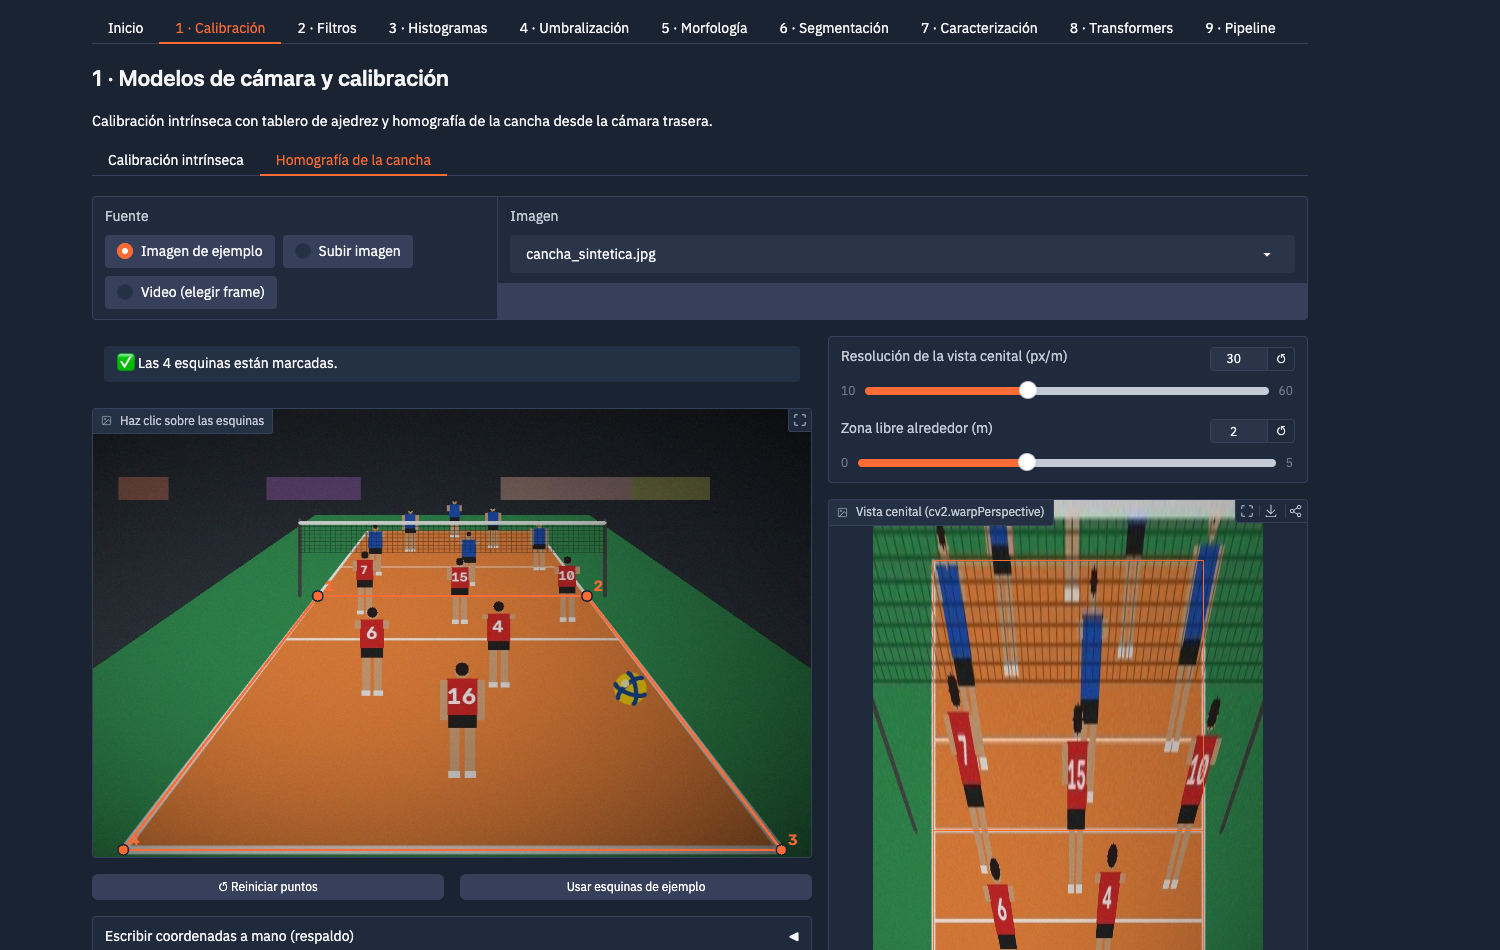
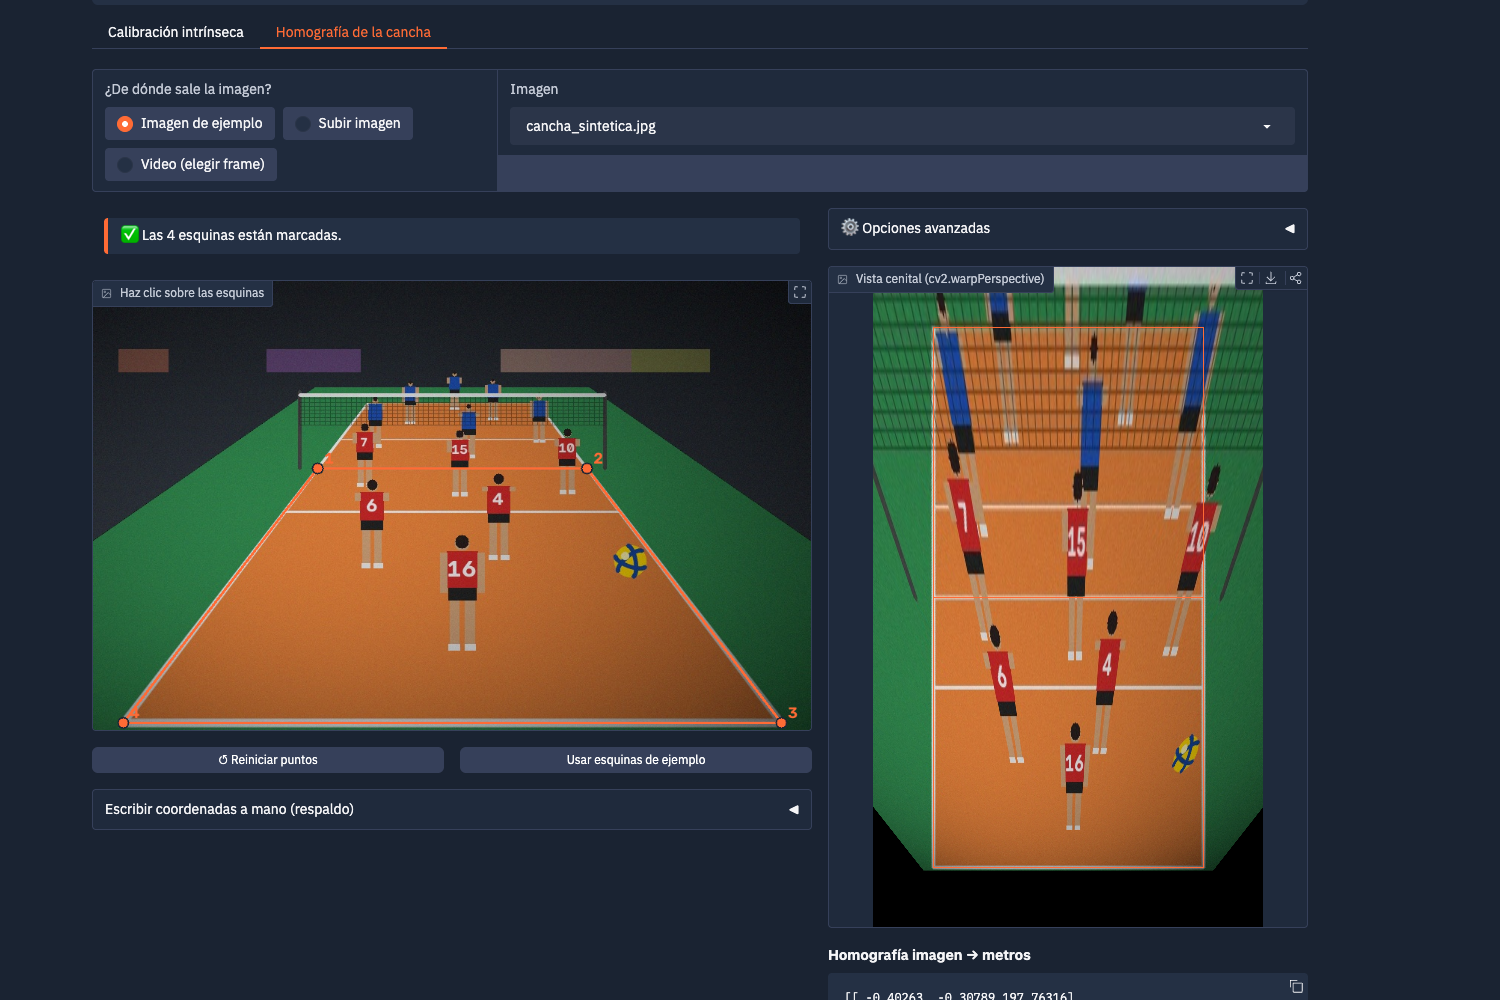
docs: describir el modo guiado y actualizar las capturas

diff --git a/README.md b/README.md
@@ -50,12 +50,12 @@ clásicas con **modelos transformer** de Hugging Face (RT-DETR, DETR, SegFormer 
 
 ## Capturas
 
-Inicio, Calibración y Transformers se tomaron del Space desplegado (los tiempos de RT-DETR y DETR son
-en la GPU de ZeroGPU); la del Pipeline, de la app local con el mismo código.
+La de Transformers se tomó del Space desplegado (los tiempos de RT-DETR y DETR son en la GPU de
+ZeroGPU); las demás, de la app local con el mismo código.
 
-| Inicio | Calibración y homografía |
+| Analizar partido (modo guiado) | Calibración y homografía |
 |---|---|
-| ![Inicio](docs/capturas/inicio.png) | ![Homografía de la media cancha y vista cenital](docs/capturas/calibracion.png) |
+| ![Analizar partido: resultado en lenguaje sencillo y mapa de la cancha](docs/capturas/analizar.png) | ![Homografía de la media cancha y vista cenital](docs/capturas/calibracion.png) |
 | **Transformers (clásico vs. RT-DETR vs. DETR)** | **Pipeline completo (mapa cenital)** |
 | ![Comparación clásico vs. transformer](docs/capturas/transformers.png) | ![Pipeline: paso 7, mapa cenital](docs/capturas/pipeline.png) |
 
@@ -92,14 +92,16 @@ python scripts/download_samples.py     # descarga fotos reales con licencia libr
 python app.py
 ```
 
-Se abre en `http://127.0.0.1:7860`. La interfaz está hecha con **Gradio** y tiene una pestaña por tema.
-Recorrido sugerido: **1 · Calibración** (pulsar *Calibrar cámara* y marcar las 4 esquinas de la media
-cancha propia en la subpestaña *Homografía*) → pestañas 2 a 8 → **9 · Pipeline**.
+Se abre en `http://127.0.0.1:7860`. La interfaz está hecha con **Gradio** y pensada también para quien no
+sabe de visión artificial. Tiene tres secciones:
 
-Cada pestaña tiene la carga de imagen (ejemplo, archivo propio o un frame de video), sliders para los
-parámetros, el resultado al lado de la original y un desplegable **"¿Qué está pasando?"** con la teoría
-y las fórmulas. Las esquinas marcadas y la calibración se guardan en la sesión y las usan las pestañas
-de Caracterización y Pipeline.
+| Sección | Para qué sirve |
+|---|---|
+| 🏐 **Analizar partido** | Modo guiado en 3 pasos: elegir la imagen → marcar las 4 esquinas de la media cancha (opcional) → **Analizar**. El resultado sale en lenguaje sencillo (jugadores por equipo, balón y en qué lado de la cancha está cada uno) junto con la foto anotada y el mapa visto desde arriba. Un desplegable *¿Cómo se hizo?* muestra las 7 etapas y el tema del curso que usa cada una. |
+| 📚 **Temas del curso** | Una pestaña por tema (1 · Calibración … 9 · Pipeline). Cada una empieza con un recuadro **"En pocas palabras"**, deja a la vista solo los controles principales, guarda el resto en **⚙ Opciones avanzadas** y tiene la teoría con fórmulas en **"¿Qué está pasando?"**. |
+| ℹ **Acerca del proyecto** | Autor, recorrido, pipeline y arquitectura. |
+
+Las esquinas marcadas y la calibración se guardan en la sesión y las comparten todas las secciones.
 
 ## Despliegue en Hugging Face Spaces (ZeroGPU)
 
@@ -141,9 +143,9 @@ Se usa un flujo tipo **Git Flow simplificado**:
 
 | Rama | Propósito |
 |---|---|
-| `main` | Versión estable y entregable. Solo recibe merges desde `develop` y se etiqueta en cada versión (`v1.0.0`, `v1.1.0`, `v2.0.0`, `v2.0.1`). |
+| `main` | Versión estable y entregable. Solo recibe merges desde `develop` y se etiqueta en cada versión (`v1.0.0`, `v1.1.0`, `v2.0.0`, `v2.0.1`, `v2.1.0`). |
 | `develop` | Rama de integración: aquí se juntan los módulos terminados y probados. |
-| `feature/<tema>` | Una rama por módulo del curso: `feature/calibracion`, `feature/filtros`, `feature/histogramas`, `feature/umbralizacion`, `feature/morfologia`, `feature/segmentacion`, `feature/caracterizacion`, `feature/transformers`, `feature/ui` (y `feature/docs` para la documentación). Los cambios posteriores siguen el mismo flujo: `feature/camara-trasera` cambió la cámara a la vista trasera (`v1.1.0`) y `feature/gradio-zerogpu` pasó la interfaz a Gradio con ZeroGPU (`v2.0.0`). |
+| `feature/<tema>` | Una rama por módulo del curso: `feature/calibracion`, `feature/filtros`, `feature/histogramas`, `feature/umbralizacion`, `feature/morfologia`, `feature/segmentacion`, `feature/caracterizacion`, `feature/transformers`, `feature/ui` (y `feature/docs` para la documentación). Los cambios posteriores siguen el mismo flujo: `feature/camara-trasera` cambió la cámara a la vista trasera (`v1.1.0`) y `feature/gradio-zerogpu` pasó la interfaz a Gradio con ZeroGPU (`v2.0.0`); `feature/ui-sencilla` agregó el modo guiado para no expertos (`v2.1.0`). |
 
 Reglas:
 
@@ -251,6 +253,15 @@ gitGraph
     merge feature/docs-entrega
     checkout main
     merge develop tag: "v2.0.1"
+    checkout develop
+    branch feature/ui-sencilla
+    checkout feature/ui-sencilla
+    commit id: "feat(ui): modo guiado"
+    commit id: "docs: modo guiado"
+    checkout develop
+    merge feature/ui-sencilla
+    checkout main
+    merge develop tag: "v2.1.0"
 ```
 
 Para ver el historial real: `git log --oneline --graph --all`.
@@ -268,7 +279,7 @@ El código se organiza en tres capas con dependencias en un solo sentido
 flowchart TB
     subgraph UI["Capa de presentación · volleyvision/ui (Gradio)"]
         direction LR
-        APP["app.py<br/>pestañas y estado"] ~~~ PAG["paginas/<br/>p0_inicio … p9_pipeline"] ~~~ COMP["componentes.py<br/>imagen/video, esquinas por clic"] ~~~ MOD["modelos.py<br/>carga única + @spaces.GPU"]
+        APP["app.py<br/>secciones y estado"] ~~~ PAG["paginas/<br/>analizar (guiado), p0 … p9"] ~~~ COMP["componentes.py<br/>imagen/video, esquinas por clic"] ~~~ MOD["modelos.py<br/>carga única + @spaces.GPU"]
     end
     subgraph CORE["Capa de dominio · volleyvision/core (funciones puras, sin Gradio)"]
         direction LR
@@ -326,11 +337,11 @@ VolleyVision/
 │   │   └── pipeline.py
 │   ├── ui/                   # Gradio
 │   │   ├── app.py  ├── componentes.py  ├── modelos.py
-│   │   └── paginas/  p0_inicio.py … p9_pipeline.py
+│   │   └── paginas/  analizar.py (modo guiado), p0_inicio.py … p9_pipeline.py
 │   └── utils/                # io.py, visualizacion.py, sinteticos.py
 ├── data/samples/             # cancha y video sintéticos, tablero (descargadas/ se ignora)
 ├── scripts/                  # generar_sinteticos.py, download_samples.py
-├── tests/                    # pytest (98 pruebas)
+├── tests/                    # pytest (100 pruebas)
 ├── docs/                     # arquitectura, guion del video, capturas
 ├── app.py                    # punto de entrada (local y Hugging Face Spaces)
 ├── requirements.txt  ├── pytest.ini  ├── LICENSE  └── README.md
@@ -374,7 +385,7 @@ compara los tiempos en tu máquina.
 ## Pruebas
 
 ```bash
-pytest                 # 95 pruebas rápidas (sin descargar modelos)
+pytest                 # 97 pruebas rápidas (sin descargar modelos)
 pytest -m slow         # 3 pruebas que descargan y ejecutan los modelos de Hugging Face
 ```
 
@@ -391,7 +402,8 @@ Qué se verifica, entre otras cosas:
 - El pipeline clásico encuentra ≥ 7 de los 12 jugadores sintéticos (la vista trasera tiene oclusiones),
   el balón y los dos equipos.
 - La app de Gradio se construye y cada callback de la UI se ejecuta sin excepciones con la escena
-  sintética (sin levantar el servidor).
+  sintética (sin levantar el servidor); el modo guiado da un resumen con jugadores, balón y lado de la
+  cancha, y sin esquinas no dibuja el mapa.
 
 ---
 

diff --git a/docs/guion_video.md b/docs/guion_video.md
@@ -5,6 +5,9 @@
 - `source .venv/bin/activate && python app.py` (o abrir el Space de Hugging Face).
 - Ejecutar una vez SegFormer y SlimSAM (pestaña 6) y RT-DETR y DETR (pestaña 8) para que los modelos ya
   estén descargados y cargados: así los tiempos que se ven en el video son los de inferencia.
+- Las pestañas de los temas están en la sección **📚 Temas del curso**. Algunos controles que se usan
+  en el guion (forma del elemento estructurante, baldosas de CLAHE…) están dentro de **⚙ Opciones
+  avanzadas**: ábrelas antes de mostrarlos.
 - Tener abiertos en el editor `README.md` y la carpeta `volleyvision/`, y una terminal con
   `git log --oneline --graph --all` listo.
 - Imagen de ejemplo principal: `cancha_sintetica.jpg`. Foto real: `voleibol_03.jpg` (o la que mejor
@@ -14,7 +17,7 @@
 
 ## 0:00 – 0:45 · Introducción
 
-**En pantalla:** pestaña **Inicio** de la app.
+**En pantalla:** sección **🏐 Analizar partido** de la app.
 
 > "Hola, soy Jorge Enrique Olaya Liévano y este es mi proyecto final de Visión Artificial:
 > **VolleyVision**. Es una aplicación que analiza fotos y video de voleibol con un pipeline de visión
@@ -24,7 +27,14 @@
 > morfología, segmentación y caracterización. Al final comparo las técnicas clásicas con modelos
 > transformer de Hugging Face, que uso solo en inferencia con pesos públicos, sin entrenar nada."
 
-Señalar la tabla del recorrido y el diagrama del pipeline.
+Pulsar **▶ Analizar** con la imagen de ejemplo y señalar el resumen, la foto con los equipos y el
+mapa de la cancha:
+
+> "Para alguien que no sabe del tema basta con esto: elegir una imagen y pulsar Analizar. Abajo, en
+> *¿Cómo se hizo?*, se ven las 7 etapas y el tema del curso que usa cada una. Cada tema se puede
+> explorar a fondo en *Temas del curso*."
+
+Abrir **ℹ Acerca del proyecto** y señalar la tabla del recorrido y el diagrama del pipeline.
 
 ## 0:45 – 1:45 · Arquitectura y ramificación
 

diff --git a/docs/arquitectura.md b/docs/arquitectura.md
@@ -59,6 +59,7 @@ sequenceDiagram
 | SlimSAM por defecto y SAM ViT-B como opción | SlimSAM es viable en CPU (~28 M parámetros frente a ~94 M). |
 | Carga única de modelos en `ui/modelos.py` (no en el core) | El core sigue sin depender de la interfaz; la caché vive en la capa de presentación. Además se hace una inferencia de calentamiento para que la comparación de tiempos sea justa. |
 | Gradio con **ZeroGPU** (Hugging Face Spaces) | ZeroGPU solo existe para Gradio. Los modelos se cargan al arrancar (requisito de ZeroGPU) y la inferencia va en funciones `@spaces.GPU`, que devuelven solo datos serializables (NumPy y diccionarios). Las técnicas clásicas corren en CPU y no gastan cuota de GPU. Fuera de un Space, `@spaces.GPU` no hace nada. |
+| Modo guiado (`paginas/analizar.py`) además de las pestañas por tema | Quien no es experto solo elige una imagen y pulsa «Analizar»: por debajo corre el mismo `ejecutar_pipeline` con valores por defecto, y el resultado se resume en lenguaje sencillo. Las pestañas por tema siguen disponibles (lo pide la materia), con los parámetros secundarios en «Opciones avanzadas». |
 | Estado de la sesión en un `gr.State` | Las esquinas marcadas (por escena) y la calibración se comparten entre pestañas sin variables globales, así cada visitante tiene las suyas. |
 | Selección automática de dispositivo (`cuda` → `mps` → `cpu`) y sincronización antes de medir | Los tiempos en GPU son asíncronos; sin sincronizar se medirían mal. En MPS se convierten las entradas float64 a float32. |
 | Punto de apoyo (centro inferior de la caja) para el mapa cenital | La homografía solo es válida para puntos del plano del piso. |

diff --git a/docs/capturas/README.md b/docs/capturas/README.md
@@ -1,10 +1,10 @@
 # Capturas para el README
 
-Capturas de la app (PNG, 1500 px de ancho; tres del Space desplegado y la del pipeline de la app local) que usa la sección **Capturas** del README:
+Capturas de la app (PNG, 1500 px de ancho; la de transformers del Space desplegado y las demás de la app local) que usa la sección **Capturas** del README:
 
 | Archivo | Qué capturar |
 |---|---|
-| `inicio.png` | Pestaña de inicio con la tabla del recorrido. |
+| `analizar.png` | Sección *Analizar partido* después de pulsar «Analizar»: resumen, foto anotada y mapa. |
 | `calibracion.png` | Pestaña *Homografía de la cancha* con las 4 esquinas marcadas y la vista cenital. |
 | `transformers.png` | Pestaña *Comparación clásico vs. transformer* con las tres columnas y la gráfica de tiempos. |
 | `pipeline.png` | Pestaña *Pipeline* con el paso 7 (mapa cenital) visible. |
